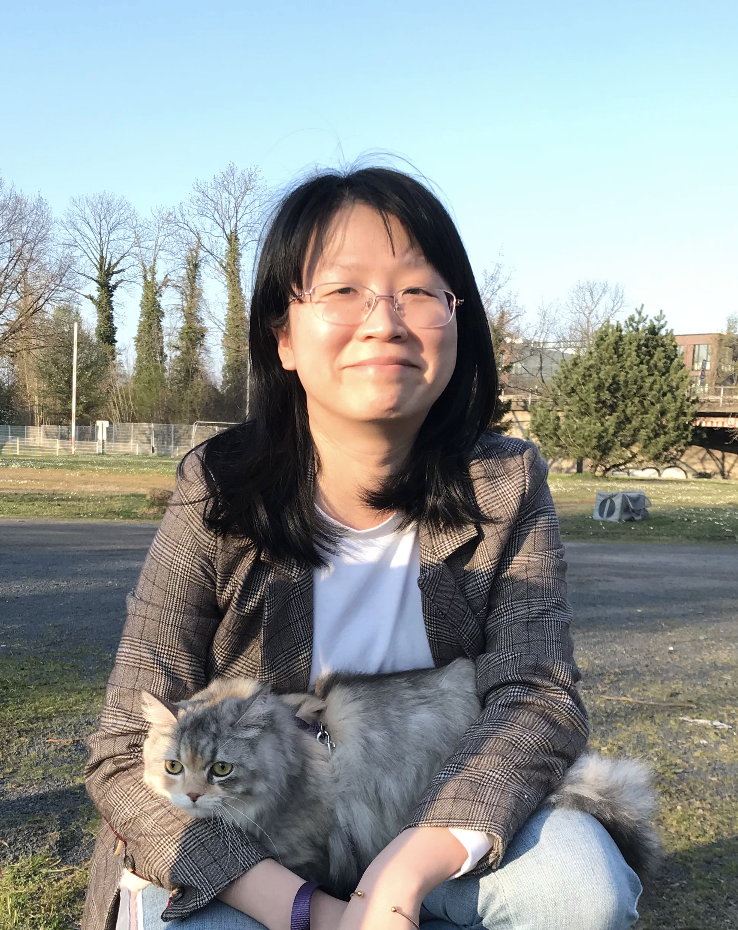
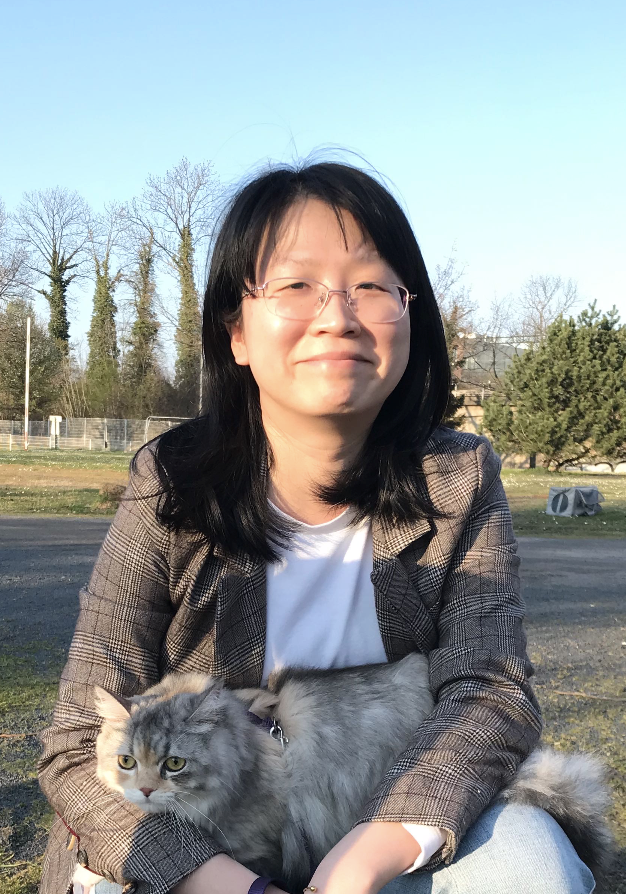
updated

diff --git a/index.html b/index.html
@@ -52,7 +52,8 @@
 							<!-- Sidebar -->
 									<section id="sidebar">
 										<section>
-											<a class="feature-image"><img src="images/wenjin.png" alt="" /></a>
+											<!--<a class="feature-image"><img src="images/wenjin.png" alt="" /></a> -->
+											<a class="feature-image"><img src="images/wenjin.png" style="max-width:80%;overflow:hidden;" /></a>
 											<header>
 												<h5><img src="images/tag.svg" style="width: 20px;height:20px"/> Contact Information</font></h5>
 											</header>
